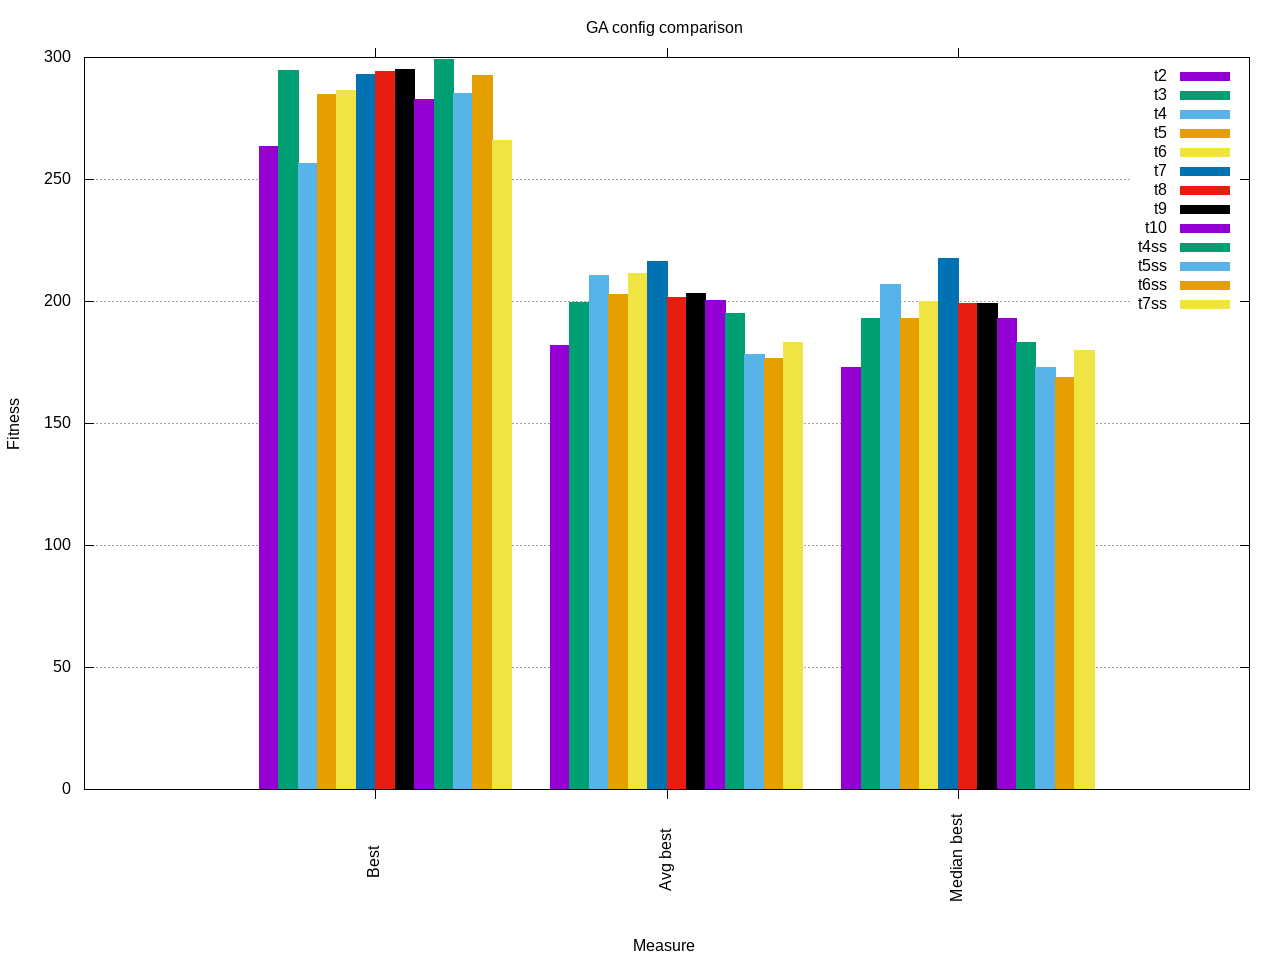
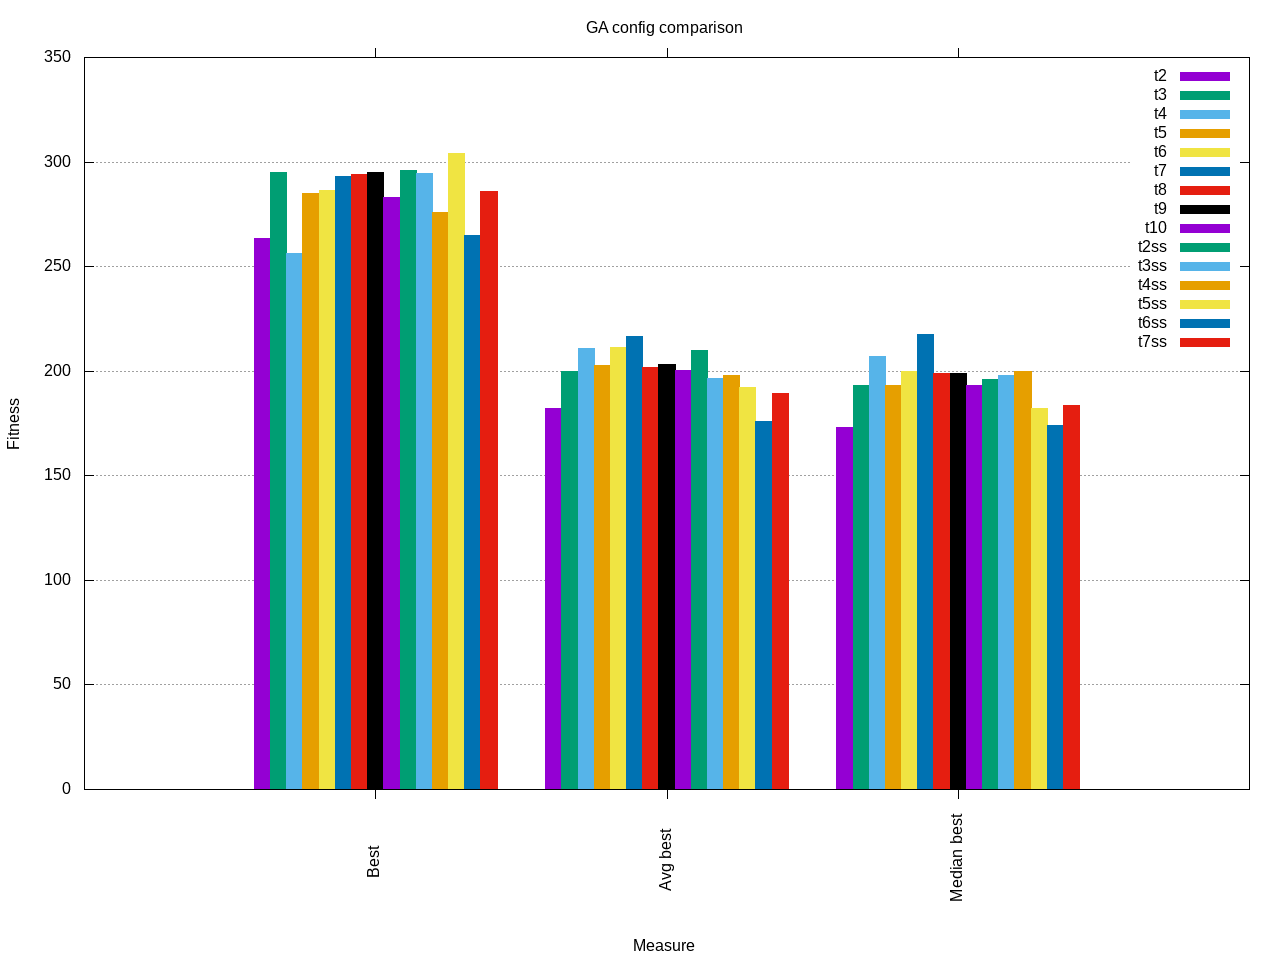
oprava experimentu pro ss, skripty

diff --git a/generateGenerationsHistogramsForFolders.php b/generateGenerationsHistogramsForFolders.php
@@ -15,17 +15,23 @@ $step = 10;
 
 $selectFolders = [
     'bp_compute_primka_7_referenci_trojnozka_1000_jedincu_bez_rekombinace_turnaj_7',
+    'bp_compute_primka_7_referenci_trojnozka_1000_jedincu_bez_rekombinace_turnaj_2_ss',
+    'bp_compute_primka_7_referenci_trojnozka_1000_jedincu_bez_rekombinace_turnaj_3_ss',
     'bp_compute_primka_7_referenci_trojnozka_1000_jedincu_bez_rekombinace_turnaj_4_ss',
-//    'bp_compute_primka_7_referenci_trojnozka_1000_jedincu_bez_rekombinace_turnaj_5_ss',
-//    'bp_compute_primka_7_referenci_trojnozka_1000_jedincu_bez_rekombinace_turnaj_6_ss',
-//    'bp_compute_primka_7_referenci_trojnozka_1000_jedincu_bez_rekombinace_turnaj_7_ss',
+    'bp_compute_primka_7_referenci_trojnozka_1000_jedincu_bez_rekombinace_turnaj_5_ss',
+    'bp_compute_primka_7_referenci_trojnozka_1000_jedincu_bez_rekombinace_turnaj_6_ss',
+    'bp_compute_primka_7_referenci_trojnozka_1000_jedincu_bez_rekombinace_turnaj_7_ss',
 ];
 
 $histogramBounds = range($lowValue, $highValue, $step);
 
 $foldersData = [];
 foreach ($selectFolders as $selectFolder) {
-    $histogramData = getHistogramData($histogramBounds, $generationNumber, $selectFolder);
+    if ($selectFolder == 'bp_compute_primka_7_referenci_trojnozka_1000_jedincu_bez_rekombinace_turnaj_7') {
+        $histogramData = getHistogramData($histogramBounds, 60, $selectFolder);
+    } else {
+        $histogramData = getHistogramData($histogramBounds, $generationNumber, $selectFolder);
+    }
 
     $foldersData[$selectFolder] = $histogramData;
 }

diff --git a/src/Experiment/ThreeLegLinearExperiment1000Individuals7TournamentSS.php b/src/Experiment/ThreeLegLinearExperiment1000Individuals7TournamentSS.php
@@ -22,7 +22,7 @@ class ThreeLegLinearExperiment1000Individuals7TournamentSS extends BaseExperimen
 {
     public function prepare()
     {
-        Config::setIndividualCount(60);
+        Config::setIndividualCount(1000);
         Config::setMutationRate(3); //does not make sense anymore
         Config::setCrossoverRate(0);
         Config::setMotorCount(3);
@@ -31,6 +31,6 @@ class ThreeLegLinearExperiment1000Individuals7TournamentSS extends BaseExperimen
         Config::setInstructionValueMaximum(5);
         Config::$tournamentSize=7;
         Config::$simulationDuration = 130;
-        Config::$generationCount=60;
+        Config::$generationCount=120;
     }
 }

diff --git a/src/Experiment/ThreeLegLinearExperiment1000Individuals2TournamentSS.php b/src/Experiment/ThreeLegLinearExperiment1000Individuals2TournamentSS.php
@@ -31,6 +31,6 @@ class ThreeLegLinearExperiment1000Individuals2TournamentSS extends BaseExperimen
         Config::setInstructionValueMaximum(5);
         Config::$tournamentSize = 2;
         Config::$simulationDuration = 130;
-        Config::$generationCount = 60;
+        Config::$generationCount = 120;
     }
 }

diff --git a/src/Experiment/ThreeLegLinearExperiment1000Individuals3TournamentSS.php b/src/Experiment/ThreeLegLinearExperiment1000Individuals3TournamentSS.php
@@ -31,6 +31,6 @@ class ThreeLegLinearExperiment1000Individuals3TournamentSS extends BaseExperimen
         Config::setInstructionValueMaximum(5);
         Config::$tournamentSize=3;
         Config::$simulationDuration = 130;
-        Config::$generationCount=60;
+        Config::$generationCount=120;
     }
 }

diff --git a/src/Experiment/ThreeLegLinearExperiment1000Individuals4TournamentSS.php b/src/Experiment/ThreeLegLinearExperiment1000Individuals4TournamentSS.php
@@ -31,6 +31,6 @@ class ThreeLegLinearExperiment1000Individuals4TournamentSS extends BaseExperimen
         Config::setInstructionValueMaximum(5);
         Config::$tournamentSize=4;
         Config::$simulationDuration = 130;
-        Config::$generationCount=60;
+        Config::$generationCount=120;
     }
 }

diff --git a/src/Experiment/ThreeLegLinearExperiment1000Individuals5TournamentSS.php b/src/Experiment/ThreeLegLinearExperiment1000Individuals5TournamentSS.php
@@ -31,6 +31,6 @@ class ThreeLegLinearExperiment1000Individuals5TournamentSS extends BaseExperimen
         Config::setInstructionValueMaximum(5);
         Config::$tournamentSize=5;
         Config::$simulationDuration = 130;
-        Config::$generationCount=60;
+        Config::$generationCount=120;
     }
 }

diff --git a/src/Experiment/ThreeLegLinearExperiment1000Individuals6TournamentSS.php b/src/Experiment/ThreeLegLinearExperiment1000Individuals6TournamentSS.php
@@ -31,6 +31,6 @@ class ThreeLegLinearExperiment1000Individuals6TournamentSS extends BaseExperimen
         Config::setInstructionValueMaximum(5);
         Config::$tournamentSize=6;
         Config::$simulationDuration = 130;
-        Config::$generationCount=60;
+        Config::$generationCount=120;
     }
 }
